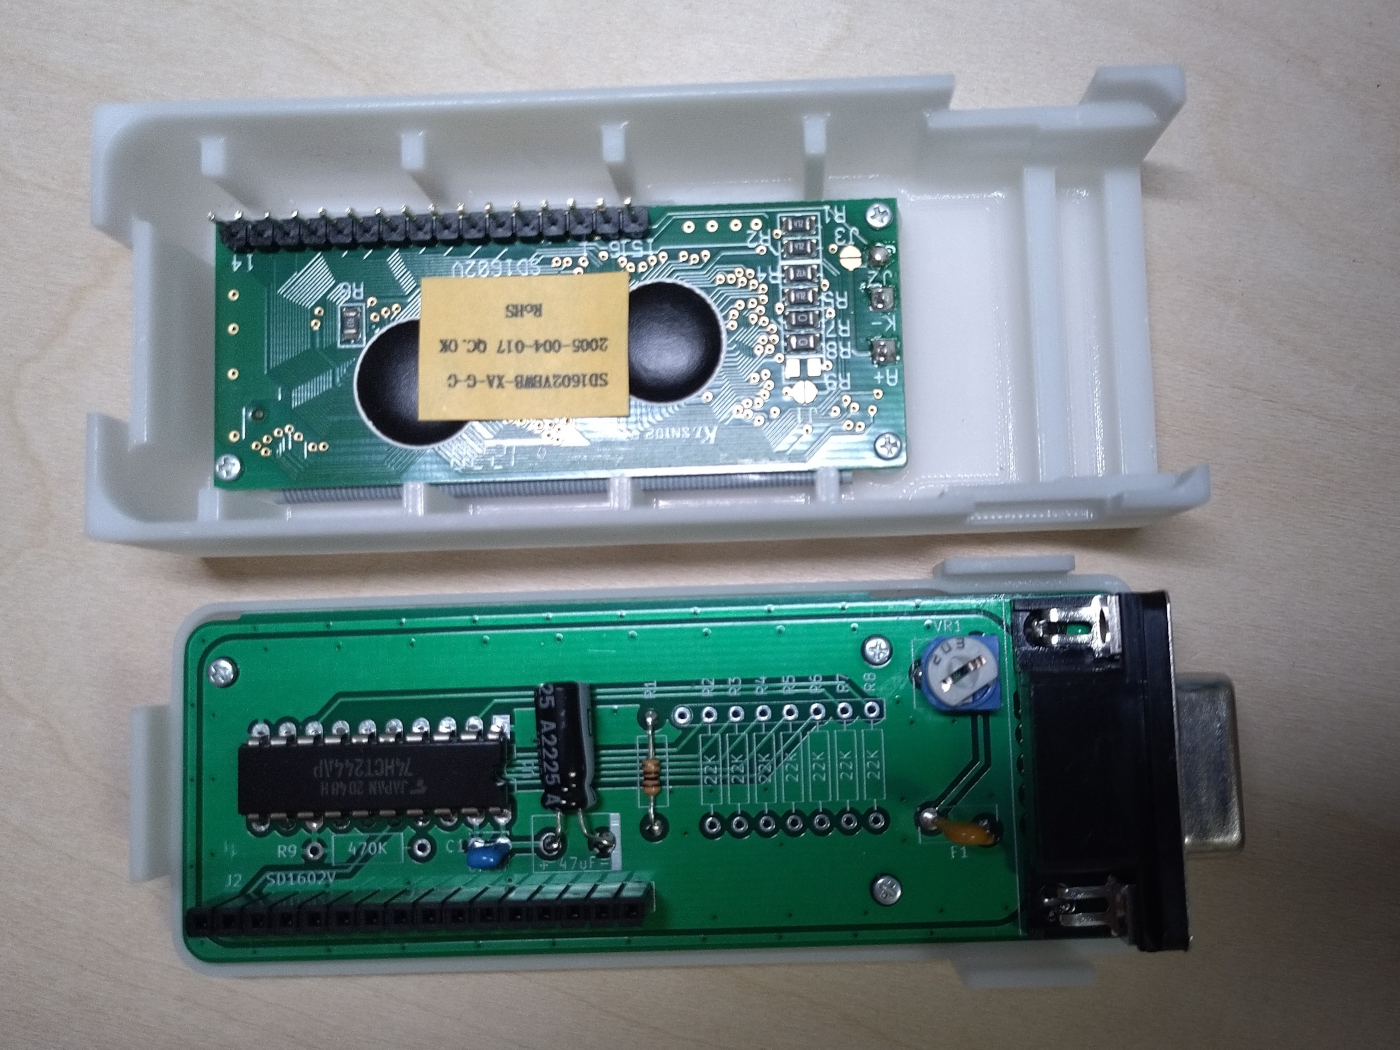
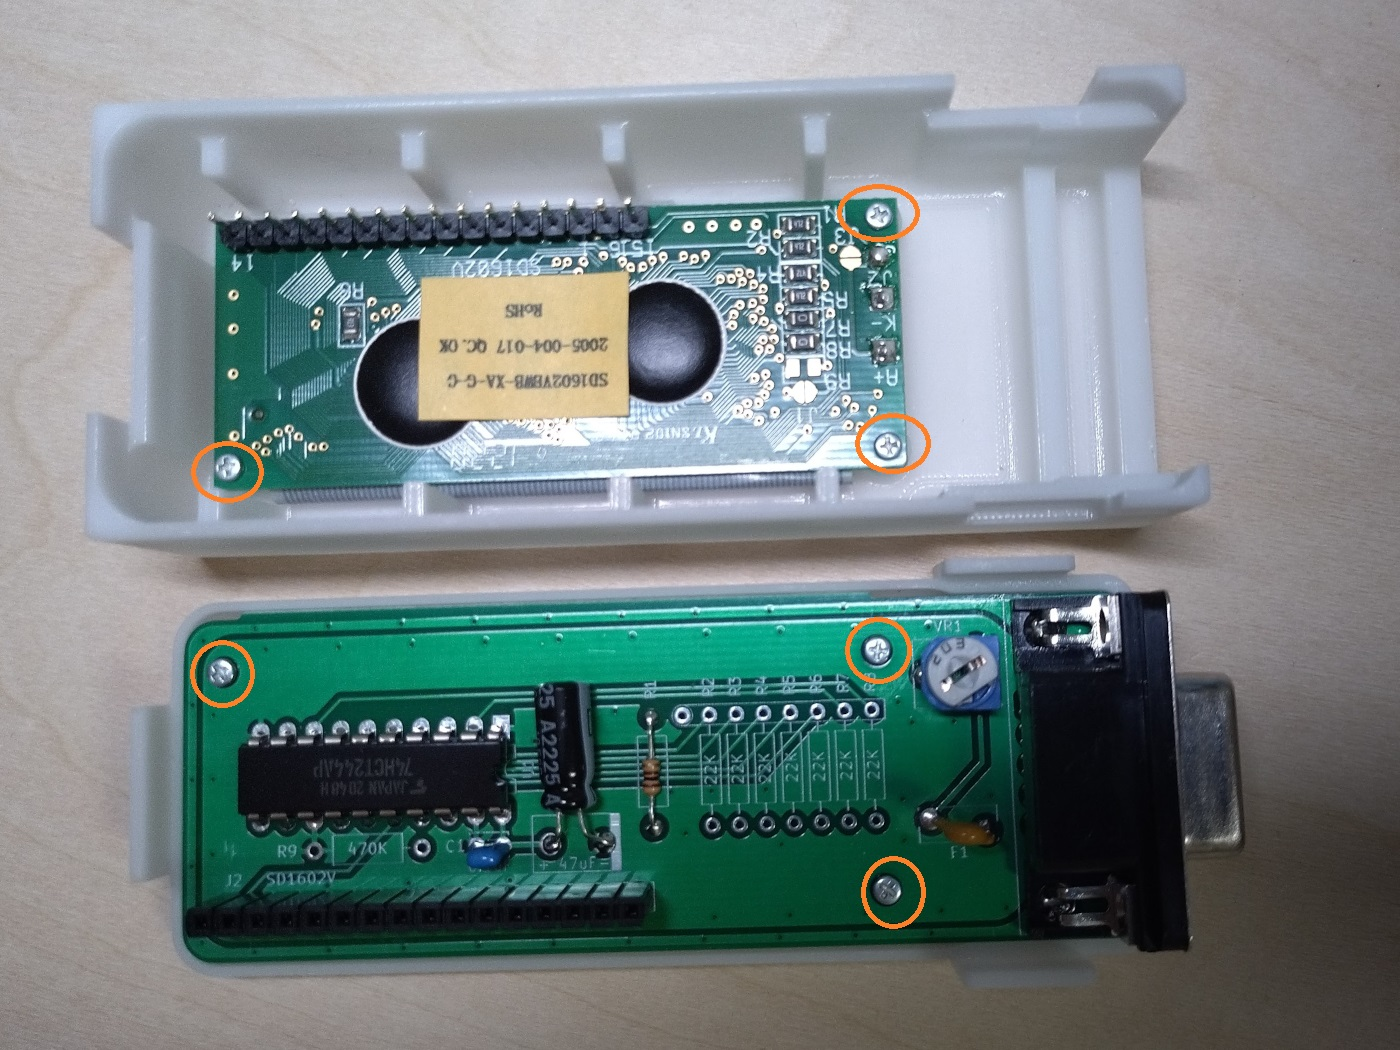
微調整

diff --git a/doc/Shiromado-kun-CF/index.html b/doc/Shiromado-kun-CF/index.html
@@ -6,13 +6,13 @@
 <h1>「白窓君」クローン基板およびケース</h1>
 <p><img width="50%" height="auto" alt="組立例" src="./images/Shiromado-kun-CF.jpg"</p>
 
-<p>たんぼ氏(<a href="https://twitter.com/h_koma2">@h_koma2</a>)が開発された「白窓君」のクローンに関する情報をまとめています。<br>
-<a href="../USB2ATARI/USB2ATARI.html">USB joypad to X680x0</a>へつないでおくための白窓君が品切れしていたため、自分用に製作したものになります。<br>
-白窓君の代替として使えることを目指してはいますが、元々が自分専用であるため、万人向けとなるよう考慮されたものではないことに注意してください。
+<p>たんぼ氏(<a href="https://twitter.com/h_koma2">@h_koma2</a>)が開発された「白窓君」の私家版クローンに関する情報をまとめています。<br>
+<a href="../USB2ATARI/USB2ATARI.html">USB joypad to X680x0</a>へつないでおくための白窓君を追加購入しようとしたのですが品切れしており、在庫補充を待ちきれずに自分用に製作したものになります。<br>
+白窓君の代替として使えることを目指してはいますが、元々が自分専用であるため、万人向けとなるよう考慮されたものではありません。
 </p>
 	
 <p>原作についての情報は<a href="http://tnb216.html.xdomain.jp/">TNB製作所</a>のページをご確認ください。<br>
-また、<a href="https://tnb216.booth.pm/items/2700441">BOOTH</a>にて、たんぼ氏の手による純正品を購入することができます。
+また、<a href="https://tnb216.booth.pm/items/2700441">TNB製作所's BOOTH</a>にて、たんぼ氏の手による、いわゆる純正品を購入することができます。
 </p>
 
 <a name="schematic"></a>
@@ -21,28 +21,35 @@
 <a href="./images/parts_location_top.png"><img width="15%" height="auto" alt="天面部品配置" src="./images/parts_location_top.png"></a>
 
 <h2>純正品との差異</h2>
-本作はRev.D回路図を参考にしていますが、以下が異なります。
+本作はTNB製作所のページにて公開されているRev.Dの回路図を参考にしていますが、以下が異なります。
 <ul>
 	<li>液晶モジュールが異なる<br>
 		純正品ではSunlike Display Tech.社のSC1602を使用していますが、本作では同社製のSD1602を使用しています。<br>
 		このため、実物で確認した限りでは、視野角が若干狭くなっています。<br>
 		また、画素の横幅が若干狭いため、文字のバランスが異なって表示されます。
 	<li>受信バッファと液晶モジュール間の外付けプルアップ抵抗を省略している<br>
-		SD1602に搭載されたICがデータシート通りにST7706UまたはHD44780であるならば、E端子以外の入力は内部でプルアップされています。
+		SD1602に搭載されたICがデータシート通りにST7706UまたはHD44780であるならば、E端子以外の入力は内部でプルアップされている筈で、外部プルアップは省略可能という判断によるものです。
 	<li>液晶モジュールのE端子をプルダウンしている<br>
 		他の入力端子がフローティング状態、かつ、E端子がHレベルと認識された場合に誤動作の原因となるため、E端子をプルダウンしています。<br>
-		ただし、下記理由により、実際にはプルダウン抵抗は不要です。
+		ただし、実際にはプルダウン抵抗は不要です(下記参照)。
 </ul>
-通常、回路図中のR2～R9には部品をとりつけません。<br>
-X680x0 または USB joypad to X680x0 に直結する場合、これらの端子がフローティング状態になる事は無いためです。
+なお、X680x0またはUSB joypad to X680x0に直結する場合、以下の理由でR2～R9は実装しません。<br>
+基板上にはパッドを残してありますが、他の用途で改造する用途のものです。
+<ul>
+	<li>R2～R8<br>
+		X680x0に直結する場合、X680x0側にプルアップ抵抗が実装されているため、白窓君側のプルアップ抵抗は必須ではありません。<br>
+		USB joypad to X680x0に直結する場合は各端子がフローティング状態にならないよう処理されるため、プルアップ抵抗は不要です。
+	<li>R9<br>
+		本基板上のU1(TC74HCT244AP)および上記によりE端子はフローティング状態にはならないため、プルダウン抵抗は不要です。
+</ul>
 
 <a name="parts_list"></a>
 <h2>部品一覧</h2>
 <table cellspacing="3" bordercolor="#484848" border="1">
 	<tbody>
 		<tr>
-			<th>部品配置</th>
-			<th>部品名</th>
+			<th>配置番号</th>
+			<th>部品名または型名や仕様</th>
 			<th>秋月電子の通販コード</th>
 			<th>解説</th>
 		</tr>
@@ -50,7 +57,7 @@ X680x0 または USB joypad to X680x0 に直結する場合、これらの端子
 			<th>-</th>
 			<th>専用基板</th>
 			<th>-</th>
-			<th>頒布の可否について確認中です。
+			<th><a href="https://kanigarage.booth.pm/items/4794931">BOOTHにて頒布予定です</a>。
 				<a href="./images/board.jpg"><img width="25%" height="auto" alt="専用基板" src="./images/board.jpg"></a>
 			</th>
 		</tr>
@@ -58,7 +65,8 @@ X680x0 または USB joypad to X680x0 に直結する場合、これらの端子
 			<th>-</th>
 			<th>M1.7かM1.6のネジやスペーサー類</th>
 			<th>-</th>
-			<th>(参考)下記部品で組む場合、基板間の隙間は11.0mm ±0.15mmになります。</th>
+			<th>専用ケースに組み込む場合、長さ4mmのM1.6タッピングねじが6本必要です。
+			</th>
 		</tr>
 		<tr>
 			<th>-</th>
@@ -70,9 +78,11 @@ X680x0 または USB joypad to X680x0 に直結する場合、これらの端子
 		</tr>
 		<tr>
 			<th>-</th>
-			<th>Sunlike Display Tech.製 SD1602</th>
-			<th>P-02985, P-01675, P-01797 のいずれか</th>
-			<th>ピン配置や形状が紛らわしい物が多いので、左記の指定品以外を使う場合には念入りに確認してください。</th>
+			<th>Sunlike Display Tech.製 SD1602V</th>
+			<th>P-02985</th>
+			<th>ピン配置や形状が紛らわしい物が多いので、指定品以外を使う場合には念入りに確認してください。<br>
+				例えば SD1602H(P-01675 や P-01797)を接続しても動作はしますが、ネジ穴位置が異なるため、専用ケースには組み込めません。
+			</th>
 		</tr>
 		<tr>
 			<th>U1</th>
@@ -94,9 +104,11 @@ X680x0 または USB joypad to X680x0 に直結する場合、これらの端子
 		</tr>
 		<tr>
 			<th>F1</th>
-			<th>MF-R010</th>
+			<th>リセッタブルヒューズ MF-R010</th>
 			<th>P-12911</th>
-			<th>(参考)R2～R9が実装されていない状態での消費電流は16mA程でした。</th>
+			<th>(参考)R2～R9が実装されていない状態での消費電流は16mA程でした。<br>
+				つまり、MF-R010より定格の小さいリセッタブルヒューズを選択可能です。
+			</th>
 		</tr>
 		<tr>
 			<th>J1</th>
@@ -110,31 +122,33 @@ X680x0 または USB joypad to X680x0 に直結する場合、これらの端子
 		</tr>
 		<tr>
 			<th>J2</th>
-			<th>FHU-1x42SG</th>
+			<th>分割ピンソケット FHU-1x42SG</th>
 			<th>C-05779</th>
 			<th>必要なピン数に切って使います。</th>
 		</tr>
 		<tr>
 			<th>VR1</th>
-			<th>TSR-065-203-R</th>
+			<th>半固定抵抗 TSR-065-203-R</th>
 			<th>P-06064</th>
-			<th>20kΩ Bカーブ</th>
+			<th>20kΩ Bカーブ<br>
+				液晶画面のコントラスト調整に使います。
+			</th>
 		</tr>
 	</tbody>
 </table>
 
-<h3>秋月電子でSD1602を購入した場合には付属している筈なので購入が不要な部品</h3>
+<h3>秋月電子でSD1602Vを購入した場合には付属している筈なので購入が不要な部品</h3>
 <table cellspacing="3" bordercolor="#484848" border="1">
 	<tbody>
 		<tr>
-			<th>部品配置</th>
-			<th>部品名</th>
+			<th>配置番号</th>
+			<th>部品名または型名や仕様</th>
 			<th>秋月電子の通販コード</th>
 			<th>解説</th>
 		</tr>
 		<tr>
 			<th>-</th>
-			<th>PH-1x40SG</th>
+			<th>分割ピンヘッダ PH-1x40SG</th>
 			<th>P-00167</th>
 			<th>上記J2のオス側</th>
 		</tr>
@@ -142,39 +156,34 @@ X680x0 または USB joypad to X680x0 に直結する場合、これらの端子
 			<th>R1</th>
 			<th></th>
 			<th>-</th>
-			<th>LEDバックライトの電流制限抵抗です<br>
-				SD1602付属のデータシートを確認して、値を選定してください。
+			<th>LEDバックライトの電流制限抵抗です。<br>
+				SD1602Vのデータシートを確認して、値を選定してください。
 			</th>
 		</tr>
 	</tbody>
 </table>
 
-<h3>X680x0側でプルアップされているので実装の必要が無い部品</h3>
+<h3>前述の理由で実装しない部品</h3>
 <table cellspacing="3" bordercolor="#484848" border="1">
 	<tbody>
 		<tr>
-			<th>部品配置</th>
-			<th>部品名</th>
+			<th>配置番号</th>
+			<th>部品名または型名や仕様</th>
 			<th>秋月電子の通販コード</th>
 			<th>解説</th>
 		</tr>
+		<tr>
+			<th>R2～R9</th>
+			<th></th>
+			<th></th>
+			<th></th>
+		</tr>
+<!--
 		<tr>
 			<th>R2～R8</th>
 			<th>10k～47kΩくらいの1/4Wカーボン抵抗</th>
 			<th>R-25223</th>
 			<th>集合抵抗モジュールでも可</th>
-		</tr>
-	</tbody>
-</table>
-
-<h3>SD1602のE信号がフローティング状態になりうる場合のみ実装する部品</h3>
-<table cellspacing="3" bordercolor="#484848" border="1">
-	<tbody>
-		<tr>
-			<th>部品配置</th>
-			<th>部品名</th>
-			<th>秋月電子の通販コード</th>
-			<th>解説</th>
 		</tr>
 		<tr>
 			<th>R9</th>
@@ -182,36 +191,57 @@ X680x0 または USB joypad to X680x0 に直結する場合、これらの端子
 			<th>R-25474</th>
 			<th>フローティング状態を防げれば良いので、極端に小さい値でなければ目的を達せられます。</th>
 		</tr>
+	-->
 	</tbody>
 </table>
+
+<h2>組み立てにおいて特に留意すべき点</h2>
+<a href="./images/rough_surface.jpg"><img width="30%" height="auto" alt="面荒れ注意" src="./images/rough_surface.jpg"></a>
+<a href="./images/assembly2.jpg"><img width="18%" height="auto" alt="組立て例2" src="./images/assembly2.jpg"></a>
+<ul>
+	<li>基板側面にVカット跡が残っています。<br>
+		怪我を防ぐために、ヤスリで削って滑らかにしておいてください。
+	<li>SD1602Vを接続するためのピンヘッダおよびピンソケット(J2)は傾かないように垂直に取り付けてください。<br>
+		傾いた状態ではケースに組み込めません。
+	<li>SD1602Vに隠れる位置にある部品の実装高さに気をつけてください。<br>
+		殆どの場合で、C2(コンデンサ)は横に寝かせて取り付けることになる筈です。
+</ul>
+
+<h2>調整が必要な箇所</h2>
+本回路で必要な箇所は液晶のコントラスト調整に使うVR1のみです。<br>
+電源電圧の微妙な差異で調整が変わる箇所ですので、実際に使用する機器およびケーブルに接続した状態で調整してください。
 
 <a name="enclosure"></a>
 <h2>専用ケースについての注意事項</h2>
 <a href="./images/enclosure.jpg"><img width="30%" height="auto" alt="専用試作ケース" src="./images/enclosure.jpg"></a>
-<a href="./images/assembly1.jpg"><img width="auto" height="20%" alt="組立て例1" src="./images/assembly1.jpg"></a>
-<a href="./images/assembly2.jpg"><img width="10%" height="auto" alt="組立て例2" src="./images/assembly2.jpg"></a>
-<a href="./images/latch.png"><img width="20%" height="auto" alt="分解用ラッチ" src="./images/latch.png"></a>
+<a href="./images/assembly1.jpg"><img width="30%" height="auto" alt="組立て例1" src="./images/assembly1.jpg"></a>
+<a href="./images/latch.png"><img width="30%" height="auto" alt="分解用スリット" src="./images/latch.png"></a>
 
 <p>3Dプリンタ出力品ですので、いわゆるガンプラのような精度を有していません。
 <ul>
-	<li>気泡埋めや傷取りなどの表面処理
+	<li>お湯を使った部品の歪みの修正
 	<li>仮組みによる確認
 	<li>すり合わせの調整
-	<li>お湯を使った部品の歪みの修正
+	<li>気泡埋めや傷取りなどの表面処理
 </ul>
 といった「ガレージキットの基本的な作法」を暗黙の内に要求します。
 </p>
 <p>
-また、ケースに組み込んだ後でのコントラスト調整はできないため、
+また、ケースに組み込んだ状態でのコントラスト調整はできないため、
 必ずケースに組み込む前に動作確認や調整を済ませる必要があります。<br>
-どうしても分解が必要な場合に備えて、ケース左側面に隙間を用意してあります。<br>
+どうしても分解が必要になった場合に備えて、ケース左側面に隙間を用意してあります。<br>
 この隙間とDE-9コネクタ上面の段差を利用して開けてください。
 </p>
 <p>
-液晶基板の固定ネジは少し緩めに止めてください(締まり始める位置から1/8～1/4回転程度戻す感じ)。<br>
-J2の取り付け誤差をこの緩みで吸収する意図です。
+SD1602Vをフロントパネルにネジ止めする場合、ネジは少し緩めに止めてください(締まり始める位置から1/8～1/4回転程度戻す感じ)。<br>
+J2の取り付け誤差をこの緩みで吸収する意図です。<br>
+</p>
+<p>
+SD1602Hを組み込むことはできません。<br>
+フロントパネルのネジ穴の位置が違うだけでなく、フィルムケーブルを破損する恐れがあるためです。
 </p>
 
+<a name="board_dimensions"></a>
 <h2>ケースを自作するための寸法情報</h2>
 <a href="./images/board_dimensions.png"><img width="30%" height="auto" alt="基板寸法図" src="./images/board_dimensions.png"></a>
 
@@ -232,7 +262,7 @@ J2の取り付け誤差をこの緩みで吸収する意図です。
 		この箇所の面取り半径は 1.0mmなので最狭部は 14.0mmとなる
 	<li>SD1602の画面窓は<br>
 		(9.0, 8.5) (61.0, 8.5) (61.0, 24.5) (9.0, 24.5)の内側16.0mm × 52.0mmの矩形となる
-	<li>SD1602の取り付けボスの位置は<br>
+	<li>SD1602Vの取り付けボスの位置は<br>
 		(4.0, 5.0) (66.0, 5.0) (66.0, 27.0) の3箇所<br>
 		穴サイズは1.8mmφ
 </ul>

diff --git a/index.html b/index.html
@@ -11,6 +11,7 @@
         訂正依頼は記憶だけを根拠にせず、証跡を添えた上でお願いします。
     <li><a href="./doc/USB2ATARI/USB2ATARI.html">USB joypad to X680x0</a>
     <li><a href="./doc/usb_ctrl_cnv_addon/index.html">「USBコントローラ→ATARI変換機」変換モード追加アタッチメント</a>
+    <li><a href="./doc/Shiromado-kun-CF/index.html">「白窓君」クローン基板およびケース</a>
 </ul>
 </body>
 </html>
